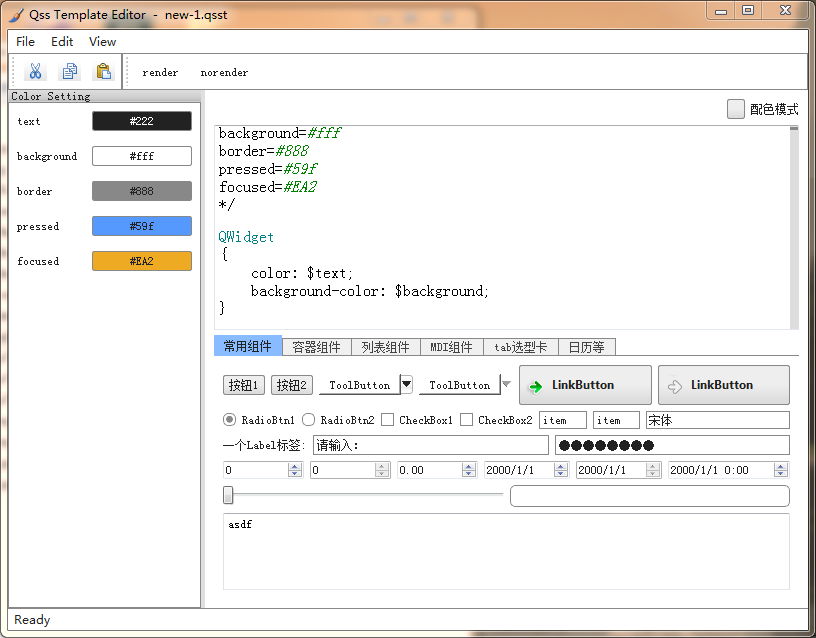
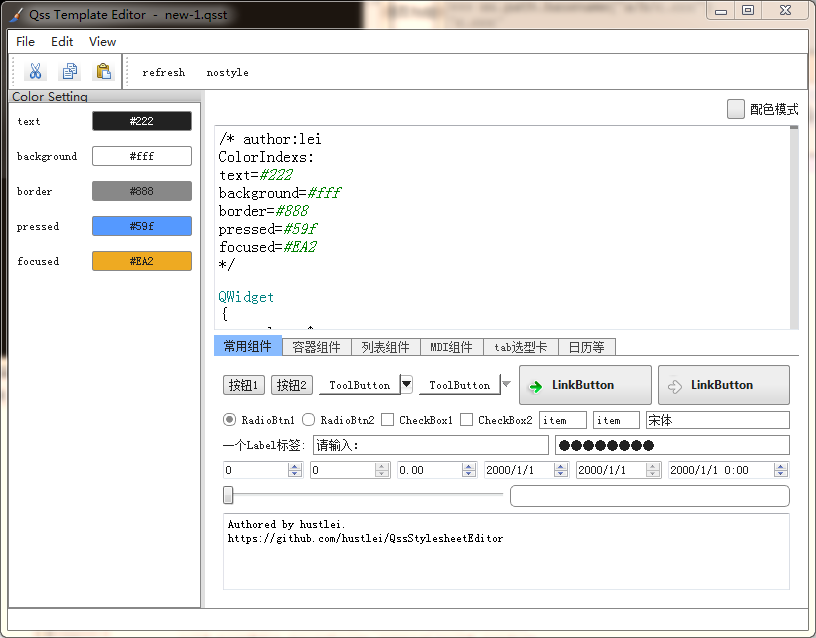
add export

diff --git a/Ui/__init__.py b/Ui/__init__.py
@@ -70,36 +70,36 @@ class QssWin(object):
             self.modeLabel.setText("配色模式")
         
     def createActions(self):
-        self.newAct=QAction(QIcon('img/bt_invite_normal.bmp'),"&New",self)
+        self.newAct=QAction(QIcon('Ui/img/bt_invite_normal.bmp'),"&New",self)
         self.newAct.setShortcut("Ctrl+N")
         self.newAct.setStatusTip("new")
-        self.openAct=QAction(QIcon('img/bt_addto_normal.bmp'),"&Open",self)
+        self.openAct=QAction(QIcon('Ui/img/bt_addto_normal.bmp'),"&Open",self)
         self.openAct.setShortcut("Ctrl+O")
         self.openAct.setStatusTip(self.tr("Open"))
-        self.saveAct=QAction(QIcon('img/bt_filesend_normal.bmp'),"&Save",self)
+        self.saveAct=QAction(QIcon('Ui/img/bt_filesend_normal.bmp'),"&Save",self)
         self.saveAct.setShortcut("Ctrl+S")
         self.saveAct.setStatusTip(self.tr("Save"))
         self.exportAct=QAction("&ExportQss",self)
         self.exportAct.setShortcut("Ctrl+Shift+E")
         self.exportAct.setStatusTip(self.tr("ExportQss"))
-        self.exitAct=QAction(QIcon('img/close.png'),"&Exit",self)
+        self.exitAct=QAction(QIcon('Ui/img/close.png'),"&Exit",self)
         self.exitAct.setShortcut("Ctrl+Q")
         self.exitAct.setStatusTip(self.tr("Close"))
-        self.cutAct=QAction(QIcon('img/broadcast_send_cut_normal.bmp'),"&Cut",self)
+        self.cutAct=QAction(QIcon('Ui/img/broadcast_send_cut_normal.bmp'),"&Cut",self)
         self.cutAct.setShortcut("Ctrl+X")
         self.cutAct.setStatusTip(self.tr("Cut"))
-        self.copyAct=QAction(QIcon('img/broadcast_send_copy_normal.bmp'),"&Copy",self)
+        self.copyAct=QAction(QIcon('Ui/img/broadcast_send_copy_normal.bmp'),"&Copy",self)
         self.copyAct.setShortcut("Ctrl+C")
         self.copyAct.setStatusTip(self.tr("Copy"))
-        self.pasteAct=QAction(QIcon('img/broadcast_send_paste_normal.bmp'),"&Paste",self)
+        self.pasteAct=QAction(QIcon('Ui/img/broadcast_send_paste_normal.bmp'),"&Paste",self)
         self.pasteAct.setShortcut("Ctrl+V")
         self.pasteAct.setStatusTip(self.tr("Paste"))
-        self.fontcolorAct=QAction(QIcon("img/broadcast_send_fontcolor_normal.bmp"),"&FontColor",self)
+        self.fontcolorAct=QAction(QIcon("Ui/img/broadcast_send_fontcolor_normal.bmp"),"&FontColor",self)
         self.fontcolorAct.setShortcut("Ctr+Shit+C")
         self.fontcolorAct.setStatusTip("FontColor")
         
-        self.renderAct=QAction("render",self)
-        self.norenderAct=QAction("norender",self)
+        self.renderAct=QAction("refresh",self)
+        self.norenderAct=QAction("nostyle",self)
         self.colorPannelView=QAction("Color Pannel",self)
         self.widgetsPannelView=QAction("Widgets Pannel",self)
         self.colorPannelView.setCheckable(True)
@@ -238,7 +238,8 @@ class QssWin(object):
         hLayout5.addWidget(slider)
         hLayout5.addWidget(progress)
         
-        textedit=QTextEdit("asdf")
+        textedit=QTextEdit("Authored by hustlei.https://github.com/hustlei/QssStylesheetEditor")
+        textedit.setPlainText("Authored by hustlei.\nhttps://github.com/hustlei/QssStylesheetEditor")
         layout.addLayout(hLayout1)
         layout.addLayout(hLayout2)
         layout.addLayout(hLayout3)

diff --git a/QssStylesheetEditor.py b/QssStylesheetEditor.py
@@ -16,7 +16,7 @@ class QssWin(QMainWindow,QssWin):
         import os
         os.chdir(os.path.dirname(__file__))
         self.setWindowTitle(self.tr("Qss Template Editor"))
-        self.setWindowIcon(QIcon("ui/img/Colorize.ico"))
+        self.setWindowIcon(QIcon("Ui/img/Colorize.ico"))
         self.qsst=Qsst()
         self.dlg=QColorDialog(self)
         
@@ -29,6 +29,7 @@ class QssWin(QMainWindow,QssWin):
         self.textEdit.mouseLeave.connect(self.render)
         self.saveAct.triggered.connect(self.save)
         self.openAct.triggered.connect(self.open)
+        self.exportAct.triggered.connect(self.export)
         self.open(file="data/default.qsst")
         self.file="data/new-1.qsst"
         self.setWindowTitle("Qss Template Editor  -  "+os.path.basename(self.file))
@@ -55,6 +56,13 @@ class QssWin(QMainWindow,QssWin):
             with open(file,'w') as f:
                 f.write(self.textEdit.toPlainText())
                 self.setWindowTitle("Qss Template Editor  -  "+os.path.basename(file))
+                
+    def export(self):
+        self.qsst.convertQss()
+        #f=os.path.join(os.path.splitext(f)[0],"Qss")
+        file,_=QFileDialog.getSaveFileName(self,"export Qss file",".","Qss(*.qss);;all(*.*)")
+        with open(file,'w') as f:
+            f.write(self.qsst.qss)
         
     def loadColors(self):
         self.qsst.srctext=self.textEdit.toPlainText()
